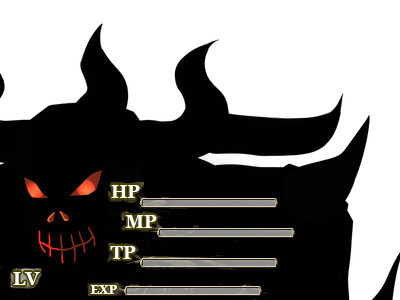
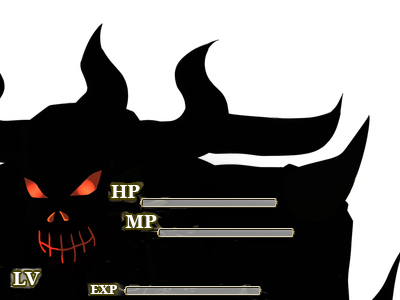
Fixing HUD layout

Changed region(s): [[0.27, 0.81, 0.69, 0.9]]

diff --git a/js/plugins.js b/js/plugins.js
@@ -4,8 +4,8 @@ var $plugins =
 [
 {"name":"Community_Basic","status":true,"description":"Basic plugin for manipulating important parameters.","parameters":{"cacheLimit":"20","screenWidth":"816","screenHeight":"624","changeWindowWidthTo":"","changeWindowHeightTo":"","renderingMode":"auto","alwaysDash":"off"}},
 {"name":"MadeWithMv","status":false,"description":"Show a Splash Screen \"Made with MV\" and/or a Custom Splash Screen before going to main screen.","parameters":{"Show Made With MV":"true","Made with MV Image":"MadeWithMv","Show Custom Splash":"false","Custom Image":"","Fade Out Time":"120","Fade In Time":"120","Wait Time":"160"}},
-{"name":"MOG_ActorHud","status":true,"description":"(v2.0 *) Adiciona uma Hud com os parâmetros do personagem.","parameters":{"-> MAIN <<<<<<<<<<<<<<<<<<<<<<<":"","Initial Visible":"true","Hud X-Axis":"0","Hud Y-Axis":"440","Smart Fade":"true","Auto Fade":"true","":"","-> LAYOUT 2 <<<<<<<<<<<<<<<<<<<<<<<":"","Layout Overlay Visible":"false","Layout Overlay X-Axis":"0","Layout Overlay Y-Axis":"0","-> FACE <<<<<<<<<<<<<<<<<<<<<<<":"","Face Visible":"true","Face X-Axis":"55","Face Y-Axis":"100","Face Priority":"1","-> NAME <<<<<<<<<<<<<<<<<<<<<<<":"","Name Visible":"true","Name X-Axis":"5","Name Y-Axis":"20","Name Font Size":"20","Name Bold Size":"4","Name Font Italic":"false","-> HP <<<<<<<<<<<<<<<<<<<<<<<":"","HP Meter Visible":"true","HP Meter X-Axis":"143","HP Meter Y-Axis":"85","HP Meter Angle":"0","HP Meter Flow Anime":"true","HP Meter Flow Speed":"4","HP Number Visible":"true","HP Number Align":"0","HP Number X-Axis":"270","HP Number Y-Axis":"70","MaxHP Number Visible":"false","MaxHP Number X-Axis":"185","MaxHP Number Y-Axis":"40","HP Icon Visible":"false","HP Icon Half Mode":"false","HP Icon Max Colors":"2","HP Icon Max Rows":"10","HP Icon Max Columns":"2","HP Icon X-Axis":"143","HP Icon Y-Axis":"85","HP Icon Space X":"0","HP Icon Space Y":"0","HP Icon Zoom Anime":"true","-> MP <<<<<<<<<<<<<<<<<<<<<<<":"","MP Meter Visible":"true","MP Meter X-Axis":"160","MP Meter Y-Axis":"115","MP Meter Angle":"0","MP Meter Flow Anime":"true","MP Meter Flow Speed":"4","MP Number Visible":"true","MP Number Align":"0","MP Number X-Axis":"287","MP Number Y-Axis":"100","MaxMP Number Visible":"false","MaxMP Number X-Axis":"196","MaxMP Number Y-Axis":"78","MP Icon Visible":"false","MP Icon Half Mode":"false","MP Icon Max Colors":"2","MP Icon Max Rows":"10","MP Icon Max Columns":"2","MP Icon X-Axis":"143","MP Icon Y-Axis":"120","MP Icon Space X":"0","MP Icon Space Y":"0","MP Icon Zoom Anime":"true","-> TP <<<<<<<<<<<<<<<<<<<<<<<":"","TP Meter Visible":"true","TP Meter X-Axis":"143","TP Meter Y-Axis":"145","TP Meter Angle":"0","TP Meter Flow Anime":"true","TP Meter Flow Speed":"4","TP Number Visible":"true","TP Number Align":"0","TP Number X-Axis":"270","TP Number Y-Axis":"130","MaxTP Number Visible":"false","MaxTP Number X-Axis":"185","MaxTP Number Y-Axis":"116","TP Icon Visible":"false","TP Icon Half Mode":"false","TP Icon Max Colors":"2","TP Icon Max Rows":"10","TP Icon Max Columns":"2","TP Icon X-Axis":"143","TP Icon Y-Axis":"50","TP Icon Space X":"0","TP Icon Space Y":"0","TP Icon Zoom Anime":"true","-> EXP <<<<<<<<<<<<<<<<<<<<<<<":"","EXP Meter Visible":"true","EXP Meter X-Axis":"127","EXP Meter Y-Axis":"173","EXP Meter Angle":"0","Level Number Visible":"true","Level Number Align":"1","Level Number X-Axis":"65","Level Number Y-Axis":"153","-> STATES <<<<<<<<<<<<<<<<<<<<<<<":"","States Visible":"true","States X-Axis":"5","States Y-Axis":"64"}},
+{"name":"MOG_ActorHud","status":true,"description":"(v2.0 *) Adiciona uma Hud com os parâmetros do personagem.","parameters":{"-> MAIN <<<<<<<<<<<<<<<<<<<<<<<":"","Initial Visible":"true","Hud X-Axis":"0","Hud Y-Axis":"325","Smart Fade":"true","Auto Fade":"true","":"","-> LAYOUT 2 <<<<<<<<<<<<<<<<<<<<<<<":"","Layout Overlay Visible":"false","Layout Overlay X-Axis":"0","Layout Overlay Y-Axis":"0","-> FACE <<<<<<<<<<<<<<<<<<<<<<<":"","Face Visible":"false","Face X-Axis":"55","Face Y-Axis":"100","Face Priority":"1","-> NAME <<<<<<<<<<<<<<<<<<<<<<<":"","Name Visible":"true","Name X-Axis":"5","Name Y-Axis":"110","Name Font Size":"28","Name Bold Size":"8","Name Font Italic":"true","-> HP <<<<<<<<<<<<<<<<<<<<<<<":"","HP Meter Visible":"true","HP Meter X-Axis":"143","HP Meter Y-Axis":"200","HP Meter Angle":"0","HP Meter Flow Anime":"true","HP Meter Flow Speed":"4","HP Number Visible":"true","HP Number Align":"0","HP Number X-Axis":"270","HP Number Y-Axis":"185","MaxHP Number Visible":"false","MaxHP Number X-Axis":"185","MaxHP Number Y-Axis":"40","HP Icon Visible":"false","HP Icon Half Mode":"false","HP Icon Max Colors":"2","HP Icon Max Rows":"10","HP Icon Max Columns":"2","HP Icon X-Axis":"143","HP Icon Y-Axis":"85","HP Icon Space X":"0","HP Icon Space Y":"0","HP Icon Zoom Anime":"true","-> MP <<<<<<<<<<<<<<<<<<<<<<<":"","MP Meter Visible":"true","MP Meter X-Axis":"160","MP Meter Y-Axis":"230","MP Meter Angle":"0","MP Meter Flow Anime":"true","MP Meter Flow Speed":"4","MP Number Visible":"true","MP Number Align":"0","MP Number X-Axis":"287","MP Number Y-Axis":"215","MaxMP Number Visible":"false","MaxMP Number X-Axis":"196","MaxMP Number Y-Axis":"78","MP Icon Visible":"false","MP Icon Half Mode":"false","MP Icon Max Colors":"2","MP Icon Max Rows":"10","MP Icon Max Columns":"2","MP Icon X-Axis":"143","MP Icon Y-Axis":"120","MP Icon Space X":"0","MP Icon Space Y":"0","MP Icon Zoom Anime":"true","-> TP <<<<<<<<<<<<<<<<<<<<<<<":"","TP Meter Visible":"false","TP Meter X-Axis":"143","TP Meter Y-Axis":"145","TP Meter Angle":"0","TP Meter Flow Anime":"true","TP Meter Flow Speed":"4","TP Number Visible":"false","TP Number Align":"0","TP Number X-Axis":"270","TP Number Y-Axis":"130","MaxTP Number Visible":"false","MaxTP Number X-Axis":"185","MaxTP Number Y-Axis":"116","TP Icon Visible":"false","TP Icon Half Mode":"false","TP Icon Max Colors":"2","TP Icon Max Rows":"10","TP Icon Max Columns":"2","TP Icon X-Axis":"143","TP Icon Y-Axis":"50","TP Icon Space X":"0","TP Icon Space Y":"0","TP Icon Zoom Anime":"true","-> EXP <<<<<<<<<<<<<<<<<<<<<<<":"","EXP Meter Visible":"true","EXP Meter X-Axis":"127","EXP Meter Y-Axis":"288","EXP Meter Angle":"0","Level Number Visible":"true","Level Number Align":"1","Level Number X-Axis":"65","Level Number Y-Axis":"268","-> STATES <<<<<<<<<<<<<<<<<<<<<<<":"","States Visible":"true","States X-Axis":"5","States Y-Axis":"164"}},
 {"name":"GALV_MapProjectiles","status":true,"description":"(v.1.8) Create projectiles that can interact with the map and map characters","parameters":{"Tile Size":"48","Fade Speed":"40","Disable Mouse Move":"false","Premade 1":"-1,0,8,6,'bulletBlast',1,'|c(1),S(1:on)',[1],[],3,1,60","Premade 2":"","Premade 3":"","Premade 4":"","Premade 5":"","Premade 6":"","Premade 7":"","Premade 8":"","Premade 9":"","Premade 10":"","Premade 11":"","Premade 12":"","Premade 13":"","Premade 14":"","Premade 15":"","Premade 16":"","Premade 17":"","Premade 18":"","Premade 19":"","Premade 20":""}},
 {"name":"MOG_EventSensor","status":true,"description":"(v1.1) Sistema de distância de eventos.","parameters":{"Self Switch Key":"D"}},
-{"name":"ChainCommand","status":false,"description":"Everyone loves quicktime events.","parameters":{"---Configuration---":"","Valid Keys":"up down left right ok cancel","Default Switch ID":"1","Default Time Given":"360","Time Per Key":"30","Exit Pause Time":"45","---Sound Effects----":"","Keypress SFX":"cursor4","Success SFX":"decision23","Error SFX":"cancel2","---Timer Bar----":"","Bar BG X Position":"285","Bar BG Y Position":"245","Meter X Shift":"5","Meter Y Shift":"5","Meter Width":"236","Meter Height":"7","---Buttons----":"","Button X Shift":"0","Button Y Shift":"0","Button Width":"31","Button Height":"31","Button Spacing":"15","---Cursor----":"","Cursor X Shift":"5","Cursor Y Shift":"40","---SFX Customization---":"**","Keypress Volume":"100","Keypress Pitch":"100","Keypress Pan":"0","Success Volume":"100","Success Pitch":"100","Success Pan":"0","Error Volume":"100","Error Pitch":"100","Error Pan":"0","":""}}
+{"name":"ChainCommand","status":true,"description":"Everyone loves quicktime events.","parameters":{"---Configuration---":"","Valid Keys":"up down left right ok cancel","Default Switch ID":"1","Default Time Given":"360","Time Per Key":"30","Exit Pause Time":"45","---Sound Effects----":"","Keypress SFX":"Damage2","Success SFX":"Monster2","Error SFX":"cancel2","---Timer Bar----":"","Bar BG X Position":"285","Bar BG Y Position":"245","Meter X Shift":"5","Meter Y Shift":"5","Meter Width":"236","Meter Height":"45","---Buttons----":"","Button X Shift":"0","Button Y Shift":"0","Button Width":"31","Button Height":"31","Button Spacing":"50","---Cursor----":"","Cursor X Shift":"5","Cursor Y Shift":"40","---SFX Customization---":"**","Keypress Volume":"100","Keypress Pitch":"100","Keypress Pan":"0","Success Volume":"100","Success Pitch":"100","Success Pan":"0","Error Volume":"100","Error Pitch":"100","Error Pan":"0","":""}}
 ];
